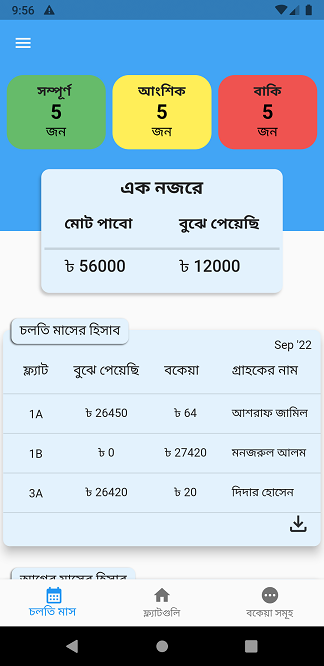
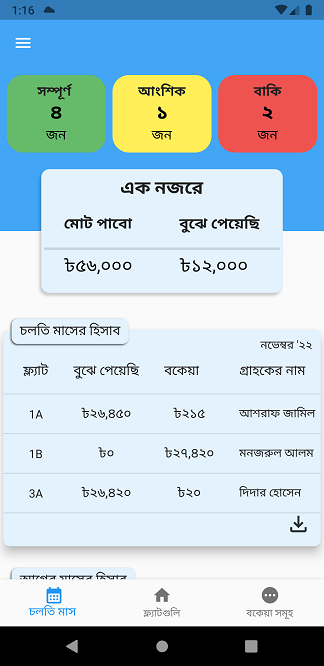
modify: images

diff --git a/lib/mvvm/views/current_month/components/monthly_data_table.dart b/lib/mvvm/views/current_month/components/monthly_data_table.dart
@@ -9,7 +9,7 @@ class MonthlyDataTable extends StatelessWidget {
       : super(key: key);
   String title;
   String? date;
-
+  final TextStyle tableFont = const TextStyle(fontSize: 16);
   @override
   Widget build(BuildContext context) {
     final mode = context.watch<ThemeProvider>();
@@ -48,11 +48,19 @@ class MonthlyDataTable extends StatelessWidget {
                           Center(child: Text('1A')),
                         ),
                         DataCell(
-                          Center(child: Text(Formatter.toBn(value: 26450))),
+                          Center(
+                              child: Text(
+                            Formatter.toBn(value: 26450),
+                            style: tableFont,
+                          )),
                         ),
 
-                        const DataCell(
-                          Center(child: Text('৳ 64')),
+                        DataCell(
+                          Center(
+                              child: Text(
+                            Formatter.toBn(value: 215),
+                            style: tableFont,
+                          )),
                         ),
                         const DataCell(
                           Center(
@@ -82,12 +90,20 @@ class MonthlyDataTable extends StatelessWidget {
                         const DataCell(
                           Center(child: Text('1B')),
                         ),
-                        const DataCell(
-                          Center(child: Text('৳ 0')),
+                        DataCell(
+                          Center(
+                              child: Text(
+                            Formatter.toBn(value: 0),
+                            style: tableFont,
+                          )),
                         ),
 
                         DataCell(
-                          Center(child: Text(Formatter.toBn(value: 27420))),
+                          Center(
+                              child: Text(
+                            Formatter.toBn(value: 27420),
+                            style: tableFont,
+                          )),
                         ),
                         const DataCell(
                           Center(
@@ -96,6 +112,7 @@ class MonthlyDataTable extends StatelessWidget {
                               child: Text(
                                 'মনজরুল আলম ',
                                 maxLines: 2,
+                                style: TextStyle(fontSize: 14),
                                 overflow: TextOverflow.fade,
                                 softWrap: true,
                               ),
@@ -118,11 +135,19 @@ class MonthlyDataTable extends StatelessWidget {
                           Center(child: Text('3A')),
                         ),
                         DataCell(
-                          Center(child: Text(Formatter.toBn(value: 26420))),
+                          Center(
+                              child: Text(
+                            Formatter.toBn(value: 26420),
+                            style: tableFont,
+                          )),
                         ),
 
                         DataCell(
-                          Center(child: Text(Formatter.toBn(value: 20))),
+                          Center(
+                              child: Text(
+                            Formatter.toBn(value: 20),
+                            style: tableFont,
+                          )),
                         ),
                         const DataCell(
                           Center(
